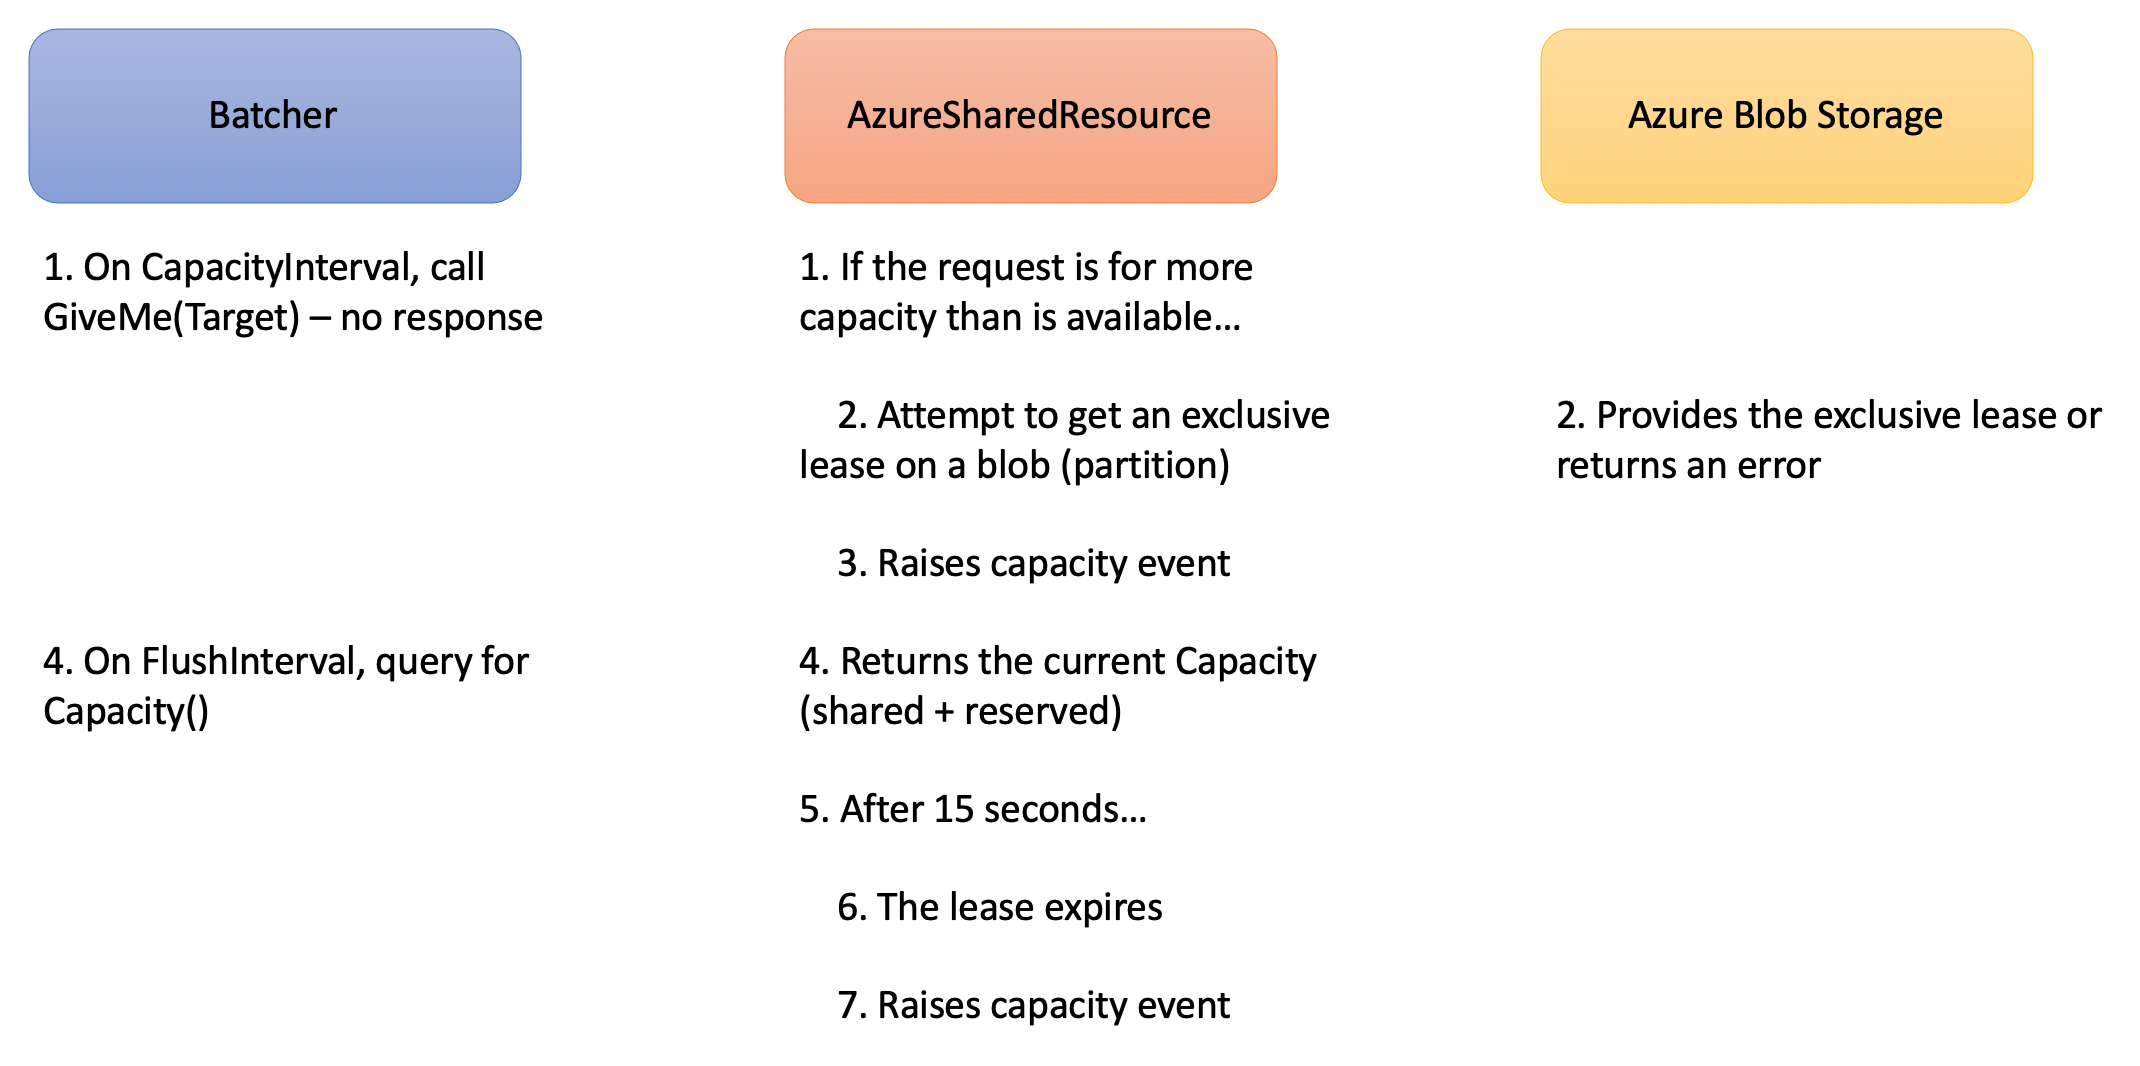
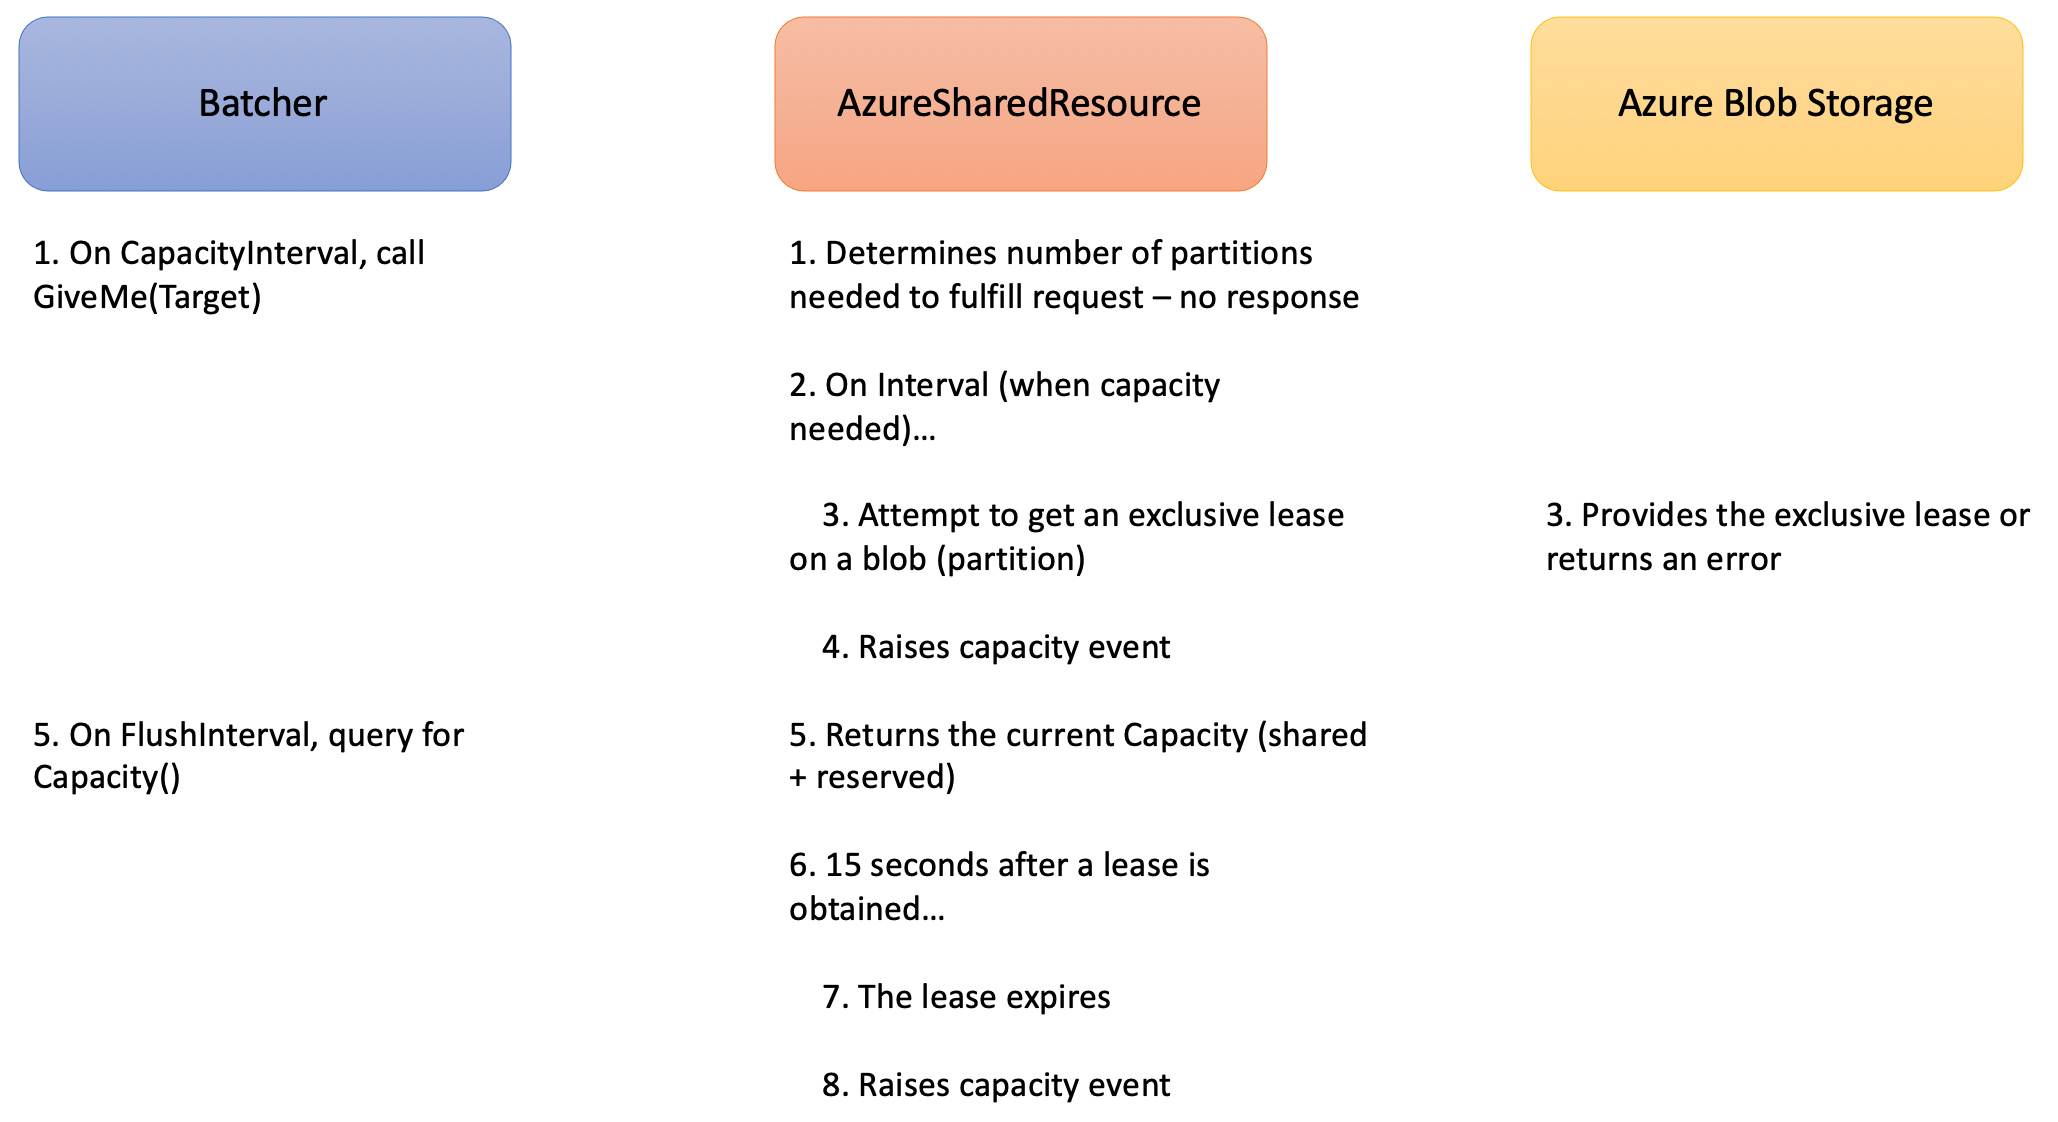
finished docs

diff --git a/batcher.go b/batcher.go
@@ -239,8 +239,6 @@ func (r *Batcher) Start() (err error) {
 	// apply defaults
 	r.applyDefaults()
 
-	// TODO update the documentation
-
 	// start the timers
 	capacityTimer := time.NewTicker(r.capacityInterval)
 	flushTimer := time.NewTicker(r.flushInterval)

diff --git a/README.md b/README.md
@@ -11,45 +11,47 @@ You have an Azure Cosmos database that you have provisioned with 20k RU. Your se
 
 There are several components related to Batcher...
 
-- Batcher: You will create one Batcher for each datastore that has capacity you wish to respect. Lots of Watcher will share the same Batcher. Batchers are long-lived.
+- __Batcher__: You will create one Batcher for each datastore that has capacity you wish to respect. Lots of Watcher will share the same Batcher. Batchers are long-lived.
 
-- Operation: You will enqueue Operations into Batcher. An Operation has an associated "Watcher", a "cost", a designation of whether or not it can be batched, a counter for the number of times it has been "attempted", and a "payload" (which can be anything you want).
+- __Operation__: You will enqueue Operations into Batcher. An Operation has an associated "Watcher", a "cost", a designation of whether or not it can be batched, a counter for the number of times it has been "attempted", and a "payload" (which can be anything you want).
 
-- Watcher: You will create one Watcher per process that you wish to manage. The Watcher receives the batches as they become available. Watchers are short-lived. For instance, if your solution is an HTTP server, you will probably create a Watcher with each request, send your Operations to a shared Batcher, and then get batches for processing back on your Watcher. If you need to handle different types of Operations that are processed in different ways or if they have different characteristics (such as an optimal batchsize), you might create a separate Watcher for each of those use-cases.
+- __Watcher__: You will create one Watcher per process that you wish to manage. The Watcher receives the batches as they become available. Watchers are short-lived. For instance, if your solution is an HTTP server, you will probably create a Watcher with each request, send your Operations to a shared Batcher, and then get batches for processing back on your Watcher. If you need to handle different types of Operations that are processed in different ways or if they have different characteristics (such as an optimal batchsize), you might create a separate Watcher for each of those use-cases.
 
 There are also 2 rate limiters provided out-of-the-box...
 
-- ProvisionedResource: This is a simple rate limiter that has a fixed capacity per second.
+- __ProvisionedResource__: This is a simple rate limiter that has a fixed capacity per second.
 
-- AzureSharedResource: This rate limiter allows you to reserve a fixed amount of capacity and then share a fixed amount of capacity across multiple processes.
+- __AzureSharedResource__: This rate limiter allows you to reserve a fixed amount of capacity and then share a fixed amount of capacity across multiple processes.
 
 Some other terms will be used throughout...
 
-- Target: As Operations are enqueued or marked done in Batcher it updates a Target number which is the total cost Batcher thinks is necessary to process any outstanding Operations. In other words, as Operations are enqueued, the Target grows by the cost of that Operation. When a batch is marked done, the Target is reduced by the cost of all Operations in that batch.
+- __Target__: As Operations are enqueued or marked done in Batcher it updates a Target number which is the total cost Batcher thinks is necessary to process any outstanding Operations. In other words, as Operations are enqueued, the Target grows by the cost of that Operation. When a batch is marked done, the Target is reduced by the cost of all Operations in that batch.
 
-- Capacity: The capacity that the rate limiter has been able to procure is available via the Capacity() method or the capacity event.
+- __Capacity__: The capacity that the rate limiter has been able to procure is available via the Capacity() method or the capacity event.
 
-- MaxCapacity: When using a rate limiter the MaxCapacity is the maximum capacity that could even be provided. For AzureSharedResource, this is the total of shared capacity and reserved capacity. For ProvisionedResource, this is the capacity that was provided when New() was called.
+- __MaxCapacity__: When using a rate limiter the MaxCapacity is the maximum capacity that could even be provided. For AzureSharedResource, this is the total of shared capacity and reserved capacity. For ProvisionedResource, this is the capacity that was provided when New() was called.
 
-TODO show a diagram
+- __Partitions__: The AzureSharedResource rate limiter divides the shared capacity by a factor to determine the number of partitions to provision as blobs. If a process owns the exclusive lease on the partition blob, then it is allowed to use 1 factor of capacity. For example, if the shared capacity is 10K and the factor is 1K, then there are 10 partitions, control of each is worth 1K capacity.
+
+![topology](./images/topology.png)
 
 ## Features
 
-- Datastore Agnostic: Batcher does not process the Operations it batches, it just notifies the caller when a batch is ready for processing. This design means the solution can work with any datastore.
+- __Datastore Agnostic__: Batcher does not process the Operations it batches, it just notifies the caller when a batch is ready for processing. This design means the solution can work with any datastore.
 
-- Batching: You may specify that Operations can be batched (ex. writes) and then specify constraints, like how often Operations should be flushed, maximum batch size, datastore capacity, etc. Batcher will send you batches of Operations ready for you to process within all your constraints.
+- __Batching__: You may specify that Operations can be batched (ex. writes) and then specify constraints, like how often Operations should be flushed, maximum batch size, datastore capacity, etc. Batcher will send you batches of Operations ready for you to process within all your constraints.
 
-- Rate Limiting: You may optionally attach a rate limiter to Batcher that can restrict the Operations so they don't exceed a certain cost per second.
+- __Rate Limiting__: You may optionally attach a rate limiter to Batcher that can restrict the Operations so they don't exceed a certain cost per second.
 
-- Shared Capacity: Batcher supports using a rate limiter. One of the included rate limiters is AzureSharedResource which allows for sharing capacity across multiple processes/containers/replicas. Sharing capacity in this way can reduce cost.
+- __Shared Capacity__: Batcher supports using a rate limiter. One of the included rate limiters is AzureSharedResource which allows for sharing capacity across multiple processes/containers/replicas. Sharing capacity in this way can reduce cost.
 
-- Reserved Capacity: AzureSharedResource also supports a reserved capacity to improve latency. For instance, you might have 4 containers that need to share 20K RU in a Cosmos database. You might give each 2K reserved capacity and share the remaining 14K RU. This gives each process low latency up to 2K RU but allows each process to request more.
+- __Reserved Capacity__: AzureSharedResource also supports a reserved capacity to improve latency. For instance, you might have 4 containers that need to share 20K RU in a Cosmos database. You might give each 2K reserved capacity and share the remaining 14K RU. This gives each process low latency up to 2K RU but allows each process to request more.
 
-- Cost per Operation: Each Operation that you enqueue to Batcher will have an associated cost.
+- __Cost per Operation__: Each Operation that you enqueue to Batcher will have an associated cost.
 
-- Limit Retries: Commonly datastores have transient faults. You want to retry those Operations after a short time because they might succeed, but you don't want to retry them forever. Watchers can be set to enforce a maximum number of retries.
+- __Limit Retries__: Commonly datastores have transient faults. You want to retry those Operations after a short time because they might succeed, but you don't want to retry them forever. Watchers can be set to enforce a maximum number of retries.
 
-- Pause: When your datastore is getting too much pressure (throwing timeouts or too-many-requests), you can pause the Batcher for a short period of time to give it some time to catch-up.
+- __Pause__: When your datastore is getting too much pressure (throwing timeouts or too-many-requests), you can pause the Batcher for a short period of time to give it some time to catch-up.
 
 ## Usage
 
@@ -308,17 +310,39 @@ In addition, the following events can be raised by AzureSharedResource...
 
 ## Rate Limiting
 
-how does the rate limiter work
+The AzureSharedResource rate limiter works like this...
 
-TODO show a diagram
+![lease](./images/lease.png)
 
-:information_source: If you want to limit the number of Operations per second rather than on the cost of those operations. You can create all Operations with a cost of 1 and set the capacity appropriately.
+The ProvisionedResource plugs into Batcher the same way, but its capacity never changes and it has no dependency on Azure Blob Storage.
 
-## Cost
+### Rate Limiting Scenarios
 
-shared vs reserved
+There are a couple of scenarios I want to call attention to...
+
+- Reserved plus Shared Capacity: Using 100% reserved capacity reduces latency and using 100% shared capacity is very cost efficient, however, it is generally best to find a happy middle-ground - a small amount of reserved capacity and the rest as shared capacity.
+
+- Operations per Second: If you want to limit the number of Operations per second rather than on the cost of those operations. You can create all Operations with a cost of 1 and set the capacity appropriately.
+
+### Cost Savings
+
+Traditionally if you want to run multiple instances of a service, you might provision capacity in your datastore times the number of instances. For example, in Azure Cosmos, if you need 20K RU and have 4 instances, you might provision 80K RU to ensure that any node could operate at maximum capacity.
+
+Using AzureSharedResource, you might still reserve capacity per instance, but it can be a small amount. You can then share capacity across the instances. For instance, in the same scenario, you might reserve 2K RU for the 4 instances and (minimally) share an addition 18K RU ().
+
+To give a cost comparison with retail pricing in the East US region with 1 TB of capacity:
+
+- 80K RU is $4,992 per month
+
+- 26K RU is $1,768 per month
+
+### Cost Increase
+
+Using default settings, each instance of AzureSharedResource will make a single storage transaction roughly every 250 milliseconds _when it needs additional capacity_. Therefore, we can determine the maximum cost for 4 instances on an Azure Storage Account GPv2 (or Blob) as...
 
 `(4 processes) x (4 lease operations per second) x (60 seconds per minute) x (60 minutes per hour) x 730 (hours per month) / (10,000 operations per billing unit) * ($0.004 per billing unit) = ~$168 month`
+
+However, this is a maximum cost - actual costs in many cases will be much lower as there are only storage operations when additional capacity is needed.
 
 ## Guidance for FlushInterval
 
